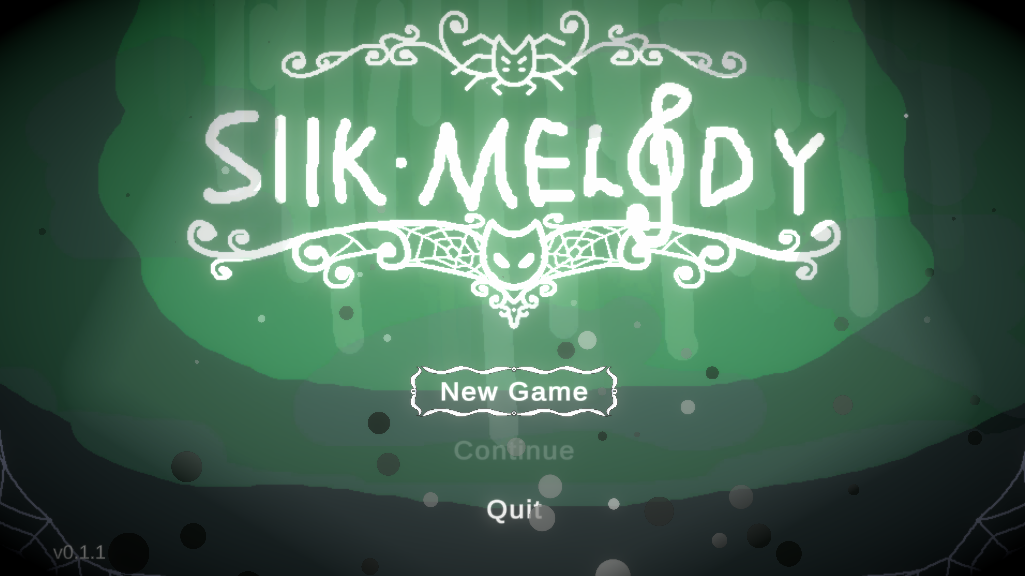
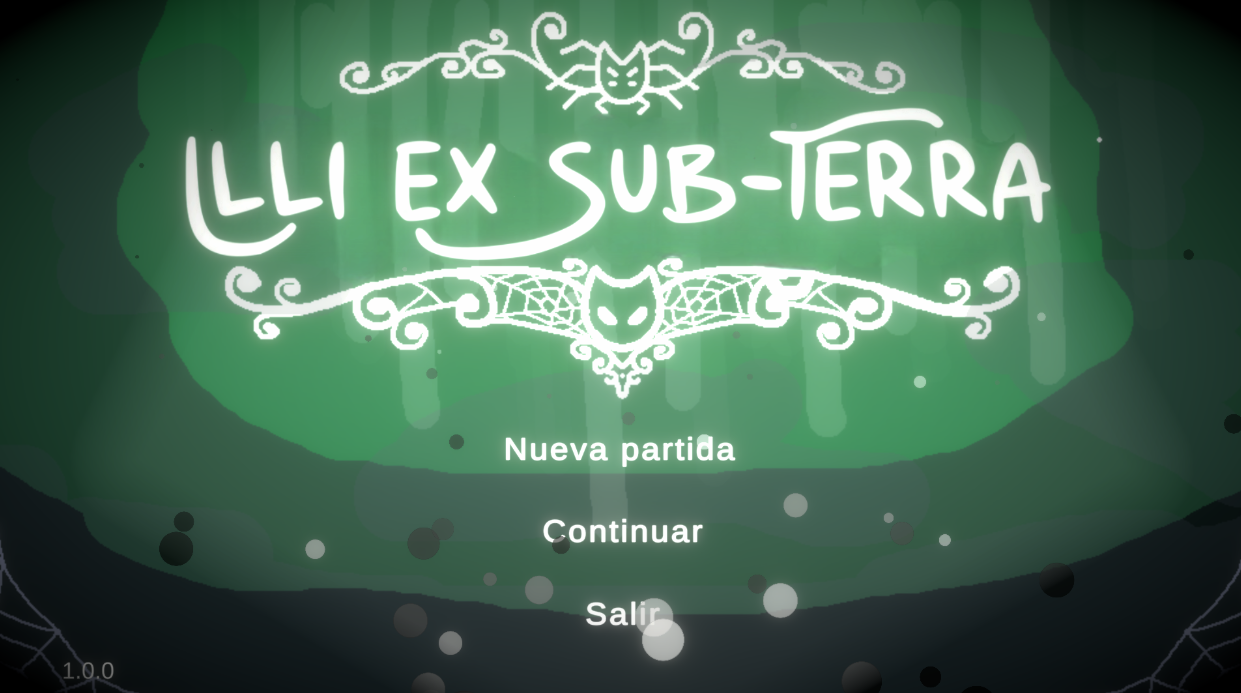
Refactorizar la estructura del código para mejorar la legibilidad y el mantenimiento

diff --git a/README.md b/README.md
@@ -1,45 +1,130 @@
-# Silk Melody
+# Illi Ex Sub Terra
 
-## Summary
+> *Una aventura Metroidvania inspirada en Hollow Knight*
 
-A bootleg game.
+## 🎮 Estado del Proyecto
 
-Status: Probably dropped. I want to try new things.
+**Actualmente en desarrollo** - Explorando nuevos conceptos y mecánicas. Posible retorno al desarrollo más adelante.
 
-Unity version: 2021.1.18f1.
+**Versión de Unity:** 6000.2.15f1
 
-## Table of contents
+**Plataforma:** Móvil (Android/iOS) con soporte para mando
 
-- [Table of contents](#table-of-contents)
-- [Demo image](#demo-images)
-- [Control](#control)
-- [Get the demo](#get-the-demo)
-- [Design document](#design-document)
-- [Resources](#resources)
+---
 
-## Demo images
+## 📖 Descripción
 
-![demo_image0](Images/demo_image_0.png "demo game images 0")
-![demo_image1](Images/demo_image_1.png "demo game images 1")
-![demo_image2](Images/demo_image_2.png "demo game images 2")
-![demo_image3](Images/demo_image_3.png "demo game images 3")
+Illi Ex Sub Terra es un juego de acción y plataformas 2D donde exploras cavernas subterráneas, combates enemigos y desbloqueas nuevas habilidades. Domina mecánicas de movimiento como agarrar bordes, ataques pogo y habilidades basadas en seda para navegar entornos desafiantes.
 
-## Control
+---
 
-Jump near ledge to grab them.
+## 🎯 Características
 
-Hold Jump to jump higher.
+- **Sistema de Movimiento Fluido**: Salto de pared, agarre de bordes, dash y más
+- **Mecánicas de Combate**: Ataques terrestres, combos aéreos y golpes pogo
+- **Habilidades de Seda**: Curación, proyectiles y ataques de área usando recurso de seda
+- **Pantallas de Carga Aleatorias**: Fondos dinámicos y animaciones de personaje
+- **Sistema de Guardado**: Continúa tu aventura desde puntos de control
+- **Elementos Aleatorios**: Fondos de menú randomizados para variedad
+- **Controles Táctiles + Mando**: Juega como prefieras
 
-Attack while holding up arrow to do an upward attack.
+---
 
-Attack while holding down arrow and midair to do an pogo attack.
+## 🕹 Controles
 
-Silk skill:
+### **Controles Táctiles (Móvil)**
+- **Joystick Virtual**: Mover izquierda/derecha
+- **Botón Saltar**: Cerca de bordes para auto-agarrar
+- **Mantener Saltar**: Saltar más alto
+- **Botón Dash**: Ráfaga de movimiento rápido
+- **Botón Atacar**: Ataque básico en tierra
+- **Arriba + Atacar**: Corte hacia arriba (anti-aéreo)
+- **Abajo + Atacar (en aire)**: Ataque pogo (rebota en enemigos/objetos)
 
-- No vertical input: Heal 3HP. Cost 8 silk.
+### **Controles con Mando**
+- **Stick Analógico / D-Pad**: Mover
+- **A / B**: Saltar
+- **X / Y**: Atacar
+- **R1 / RB**: Dash
+- **Direccional + Habilidad de Seda**: Usar habilidades especiales
 
-- Up input (press silk skill while holding up): Gossamer Storm. Cost 6 silk.
+---
 
-- Down input: Silk Burst projectile. Cost 4 silk.
+## 🖼 Capturas de Pantalla
+
+![Exploración de Cuevas](Images/demo_image_0.png)
+
+![Sistema de Combate](Images/demo_image_1.png)
+
+![Batalla contra Jefe](Images/demo_image_2.png)
+
+![Habilidades de Seda](Images/demo_image_3.png)
+
+![Diseño de Niveles](Images/demo_image_4.png)
+
+![Menú Principal](Images/demo_image_5.png)
+
+---
+
+## 🛠 Aspectos Técnicos Destacados
+
+- **Sistema de Carga**: Manager personalizado con animaciones aleatorias
+- **Guardar/Cargar**: Datos persistentes del jugador con sistema de checkpoints
+- **Animación**: Controlador de personaje basado en máquina de estados
+- **UI/UX**: Fondos dinámicos y transiciones suaves
+- **Controles Adaptativos**: Detección automática de táctil/mando
+- **Optimización Móvil**: Rendimiento optimizado para dispositivos móviles
+
+---
 
 
+## 🚀 Planes Futuros (Tal vez)
+
+- [ ] Biomas y áreas adicionales
+- [ ] Más tipos de enemigos y jefes
+- [ ] Árbol de habilidades extendido
+- [ ] Modo speedrun con cronómetro
+- [ ] Sistema de logros
+- [ ] Nuevo juego+ con dificultad aumentada
+- [ ] Soporte para más tipos de mandos
+
+---
+
+## 🐛 Problemas Conocidos
+
+- Ocasionales glitches de colisión en bordes específicos
+- La UI de seda puede no actualizarse inmediatamente después de usar
+- La pantalla de carga puede persistir si falla el spawn del jugador
+- Optimización en algunos dispositivos de gama baja
+
+---
+
+## 📝 Notas de Desarrollo
+
+Empezó como un proyecto de aprendizaje para entender:
+- Física 2D y tilemaps de Unity
+- Patrones de diseño de máquina de estados
+- Sistemas de guardar/cargar
+- Diseño de flujo UI/UX
+- Adaptación de controles para móvil
+- Optimización de rendimiento
+
+Actualmente explorando otros conceptos de juego, pero podría volver a expandir este proyecto.
+
+---
+
+## 📱 Requisitos del Sistema
+
+### Android
+- Versión mínima: Android 7.0 (API 24)
+- RAM: 2GB mínimo, 4GB recomendado
+- Almacenamiento: 200MB
+
+### iOS
+- Versión mínima: iOS 12.0
+- Dispositivos compatibles: iPhone 6s o superior
+- Almacenamiento: 200MB
+
+---
+
+**⭐ Si encontraste este proyecto interesante, ¡considera darle una estrella al repositorio!
